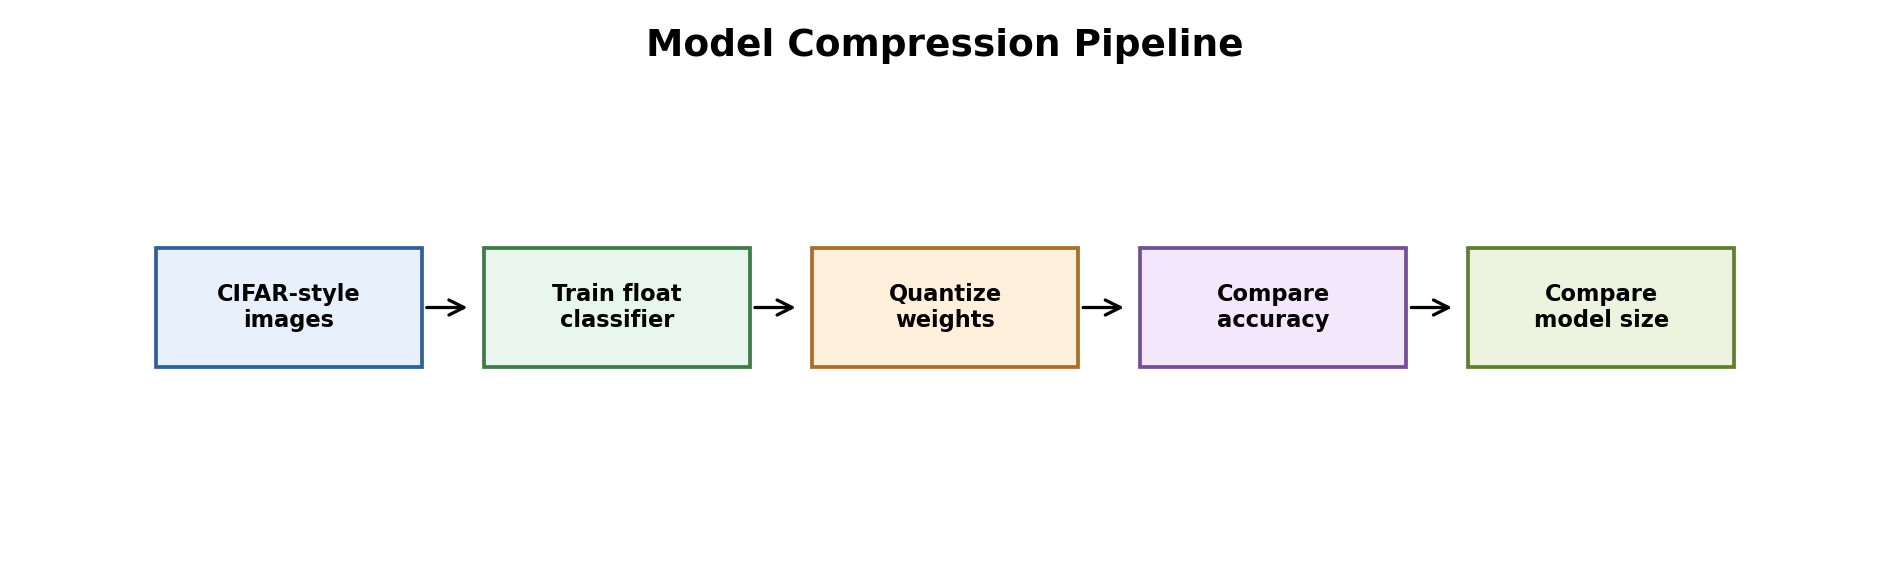
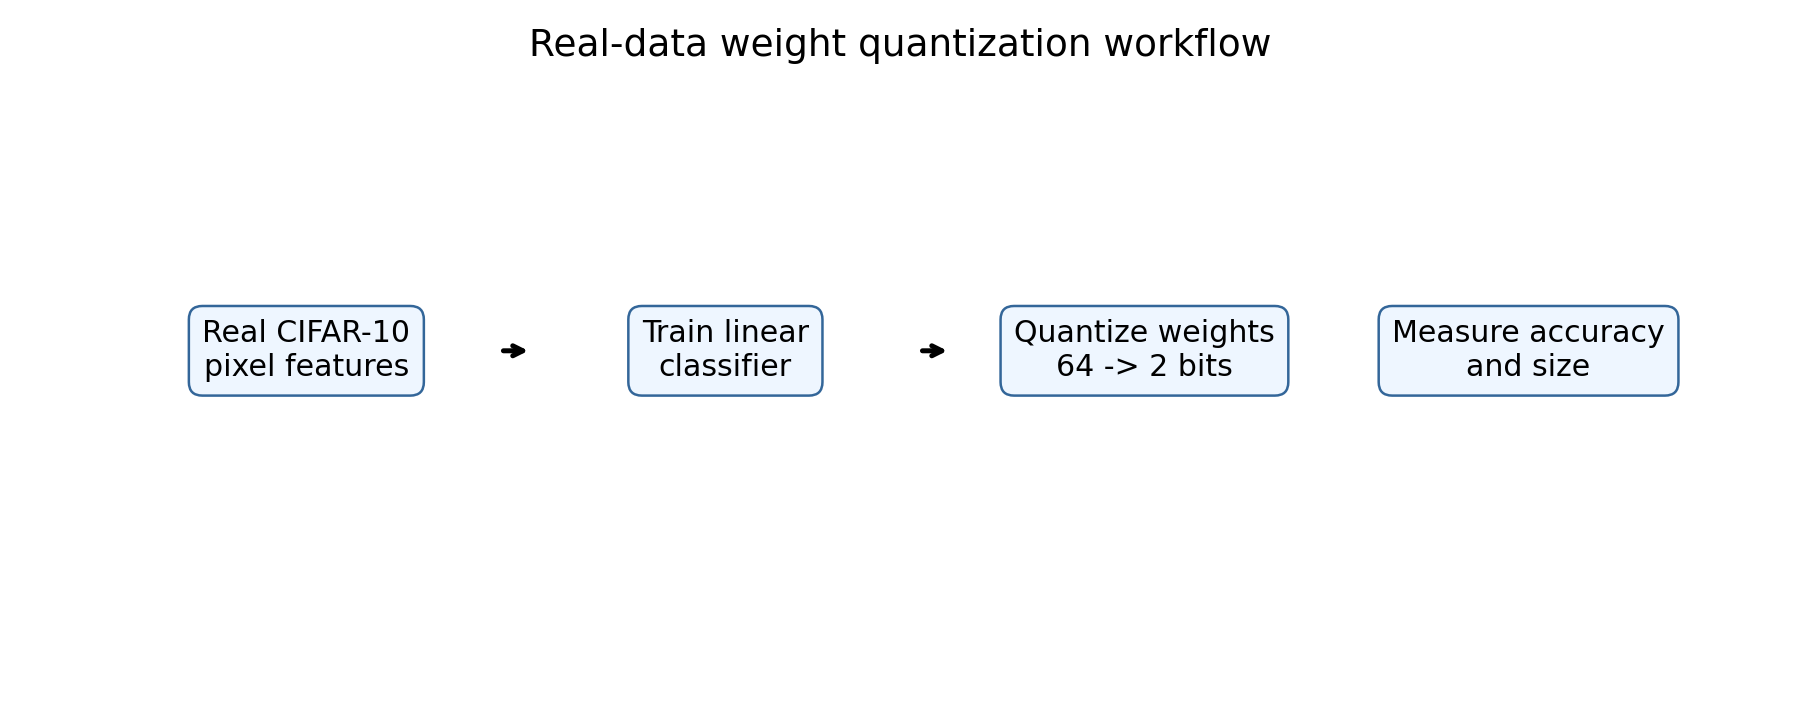
Use real CIFAR-10 for quantization lab

Changed region(s): [[0.0933, 0.4062, 0.9333, 0.6562], [0.28, 0.0312, 0.7156, 0.125], [0.0622, 0.625, 0.2178, 0.6562]]

diff --git a/1_real_cifar_linear_quantization.py b/1_real_cifar_linear_quantization.py
@@ -1,0 +1,190 @@
+from __future__ import annotations
+
+import pickle
+import tarfile
+import urllib.request
+from pathlib import Path
+
+import matplotlib
+
+matplotlib.use("Agg")
+import matplotlib.pyplot as plt
+import numpy as np
+import pandas as pd
+from sklearn.linear_model import SGDClassifier
+from sklearn.metrics import accuracy_score, f1_score
+from sklearn.pipeline import Pipeline
+from sklearn.preprocessing import StandardScaler
+
+
+ROOT = Path(__file__).resolve().parent
+DATA = ROOT / "data"
+RESULTS = ROOT / "results"
+ASSETS = ROOT / "assets"
+URL = "https://www.cs.toronto.edu/~kriz/cifar-10-python.tar.gz"
+ARCHIVE = DATA / "cifar-10-python.tar.gz"
+EXTRACTED = DATA / "cifar-10-batches-py"
+SEED = 42
+
+
+def download_cifar10() -> None:
+    DATA.mkdir(exist_ok=True)
+    if not ARCHIVE.exists():
+        print(f"Downloading CIFAR-10 from {URL}")
+        urllib.request.urlretrieve(URL, ARCHIVE)
+    if not EXTRACTED.exists():
+        with tarfile.open(ARCHIVE, "r:gz") as tar:
+            tar.extractall(DATA, filter="data")
+
+
+def load_batch(path: Path) -> tuple[np.ndarray, np.ndarray]:
+    with path.open("rb") as handle:
+        batch = pickle.load(handle, encoding="latin1")
+    x = batch["data"].reshape(-1, 3, 32, 32).transpose(0, 2, 3, 1)
+    y = np.array(batch["labels"], dtype=np.int64)
+    return x, y
+
+
+def load_cifar10_subset(train_per_class: int = 1000, test_per_class: int = 200) -> tuple[np.ndarray, np.ndarray, np.ndarray, np.ndarray]:
+    download_cifar10()
+    train_images = []
+    train_labels = []
+    for batch_id in range(1, 6):
+        x, y = load_batch(EXTRACTED / f"data_batch_{batch_id}")
+        train_images.append(x)
+        train_labels.append(y)
+    x_train_all = np.concatenate(train_images)
+    y_train_all = np.concatenate(train_labels)
+    x_test_all, y_test_all = load_batch(EXTRACTED / "test_batch")
+    rng = np.random.default_rng(SEED)
+
+    def balanced_subset(x: np.ndarray, y: np.ndarray, per_class: int) -> tuple[np.ndarray, np.ndarray]:
+        indices = []
+        for label in range(10):
+            label_idx = np.where(y == label)[0]
+            indices.extend(rng.choice(label_idx, size=per_class, replace=False))
+        indices = np.array(indices)
+        rng.shuffle(indices)
+        return x[indices], y[indices]
+
+    return (*balanced_subset(x_train_all, y_train_all, train_per_class), *balanced_subset(x_test_all, y_test_all, test_per_class))
+
+
+def pixel_features(images: np.ndarray) -> np.ndarray:
+    return images.astype(np.float32).reshape(len(images), -1) / 255.0
+
+
+def quantize_symmetric(weights: np.ndarray, bits: int) -> tuple[np.ndarray, float]:
+    if bits == 32:
+        return weights.copy(), 1.0
+    levels = 2 ** (bits - 1) - 1
+    max_abs = np.max(np.abs(weights))
+    scale = max_abs / levels if max_abs > 0 else 1.0
+    q = np.round(weights / scale).clip(-levels, levels)
+    return q * scale, scale
+
+
+def evaluate_scores(scores: np.ndarray, y_test: np.ndarray) -> tuple[float, float]:
+    pred = scores.argmax(axis=1)
+    return accuracy_score(y_test, pred), f1_score(y_test, pred, average="macro")
+
+
+def main() -> None:
+    RESULTS.mkdir(exist_ok=True)
+    ASSETS.mkdir(exist_ok=True)
+    x_train_img, y_train, x_test_img, y_test = load_cifar10_subset()
+    x_train = pixel_features(x_train_img)
+    x_test = pixel_features(x_test_img)
+
+    model = Pipeline(
+        [
+            ("scaler", StandardScaler()),
+            ("clf", SGDClassifier(loss="log_loss", alpha=1e-4, max_iter=100, random_state=SEED)),
+        ]
+    )
+    model.fit(x_train, y_train)
+    scaler = model.named_steps["scaler"]
+    clf = model.named_steps["clf"]
+    x_test_scaled = scaler.transform(x_test)
+
+    rows = []
+    dense_float64_bytes = clf.coef_.size * 8 + clf.intercept_.size * 8
+    for bits in [64, 32, 16, 8, 4, 2]:
+        if bits == 64:
+            coef = clf.coef_
+            intercept = clf.intercept_
+            scale = 1.0
+        else:
+            coef, scale = quantize_symmetric(clf.coef_, bits)
+            intercept, _ = quantize_symmetric(clf.intercept_, bits)
+        scores = x_test_scaled @ coef.T + intercept
+        acc, f1 = evaluate_scores(scores, y_test)
+        approx_bytes = (clf.coef_.size + clf.intercept_.size) * bits / 8
+        rows.append(
+            {
+                "weight_precision_bits": bits,
+                "accuracy": round(acc, 4),
+                "macro_f1": round(f1, 4),
+                "approx_model_bytes": round(approx_bytes, 1),
+                "compression_ratio_vs_float64": round(dense_float64_bytes / approx_bytes, 2),
+                "quantization_scale": scale,
+            }
+        )
+
+    metrics = pd.DataFrame(rows)
+    metrics.to_csv(RESULTS / "quantization_metrics.csv", index=False)
+    pd.DataFrame(
+        [
+            {"setting": "dataset", "value": "CIFAR-10 official Python archive"},
+            {"setting": "train_images", "value": len(x_train)},
+            {"setting": "test_images", "value": len(x_test)},
+            {"setting": "classes", "value": 10},
+            {"setting": "model", "value": "SGD linear classifier on standardized pixels"},
+        ]
+    ).to_csv(RESULTS / "experiment_setup.csv", index=False)
+
+    plt.figure(figsize=(7, 4))
+    plt.plot(metrics["weight_precision_bits"], metrics["accuracy"], marker="o", linewidth=2)
+    plt.gca().invert_xaxis()
+    plt.ylim(0, 0.45)
+    plt.xlabel("Weight precision bits")
+    plt.ylabel("Test accuracy")
+    plt.title("CIFAR-10 Accuracy After Weight Quantization")
+    plt.grid(alpha=0.25)
+    plt.tight_layout()
+    plt.savefig(RESULTS / "accuracy_vs_precision.png", dpi=180)
+    plt.close()
+
+    plt.figure(figsize=(7, 4))
+    plt.plot(metrics["compression_ratio_vs_float64"], metrics["accuracy"], marker="o", linewidth=2)
+    plt.xlabel("Compression ratio vs float64")
+    plt.ylabel("Test accuracy")
+    plt.ylim(0, 0.45)
+    plt.title("Compression and Accuracy Trade-off")
+    plt.grid(alpha=0.25)
+    plt.tight_layout()
+    plt.savefig(RESULTS / "compression_accuracy_tradeoff.png", dpi=180)
+    plt.close()
+
+    fig, ax = plt.subplots(figsize=(10, 4))
+    ax.axis("off")
+    boxes = [
+        ("Real CIFAR-10\npixel features", 0.16),
+        ("Train linear\nclassifier", 0.40),
+        ("Quantize weights\n64 -> 2 bits", 0.64),
+        ("Measure accuracy\nand size", 0.86),
+    ]
+    for text, x in boxes:
+        ax.text(x, 0.55, text, ha="center", va="center", fontsize=12, bbox=dict(boxstyle="round,pad=0.45", facecolor="#eef6ff", edgecolor="#336699"))
+    for start, end in zip(boxes[:-1], boxes[1:]):
+        ax.annotate("", xy=(end[1] - 0.11, 0.55), xytext=(start[1] + 0.11, 0.55), arrowprops=dict(arrowstyle="->", lw=2))
+    ax.set_title("Real-data weight quantization workflow", fontsize=15)
+    fig.tight_layout()
+    fig.savefig(ASSETS / "readme_project_overview.png", dpi=180)
+    plt.close(fig)
+
+    print(metrics.to_string(index=False))
+
+
+if __name__ == "__main__":
+    main()

diff --git a/README.md b/README.md
@@ -1,25 +1,28 @@
-# CIFAR-Style Model Compression and Quantization Lab
-
-![Quantization overview](assets/quantization_overview.png)
-
-Figure: quantization stores the same model weights with fewer bits, reducing memory while trying to keep the model useful.
+# CIFAR-10 Linear Model Quantization Lab
 
 ![Project overview](assets/readme_project_overview.png)
 
-Figure: model-compression workflow from training to int8 weight quantization.
-
+Figure: train a linear classifier on real CIFAR-10 pixels, quantize the trained weights, and measure the accuracy-size trade-off.
 
 ## Motivation
 
-Edge AI often needs models that are small enough to run on limited hardware. Quantization is one common compression method: it stores model weights with fewer bits, usually with a small accuracy trade-off.
+Quantization is useful only if we measure both compression and accuracy. The earlier version used a controlled image dataset and gave perfect accuracy, which was not a useful research signal. This version uses real CIFAR-10 so the compression result is more honest.
 
 ## Project Goal
 
-We tested whether an image classifier can keep its accuracy after converting its learned weights from floating point values to int8 values.
+We trained a simple linear classifier on real CIFAR-10 and quantized its weights from float64 storage down to lower precision. The goal was to see when quantization keeps accuracy stable and when it breaks the model.
 
 ## Dataset
 
-The experiment uses a controlled CIFAR-style image dataset with 16x16 RGB images and three visual classes. The images are not the real CIFAR dataset. They are local image-like examples with simple color and shape patterns, used so the compression experiment runs without downloading external data.
+We used the official CIFAR-10 Python archive. The script downloads the dataset into the ignored `data/` folder.
+
+Experiment subset:
+
+- Training images: 10,000
+- Test images: 2,000
+- Classes: 10
+- Image size: 32x32 RGB
+- Features: flattened standardized pixels
 
 ## Tools
 
@@ -27,37 +30,55 @@ Python, NumPy, pandas, scikit-learn, and matplotlib.
 
 ## Method
 
-We trained multinomial logistic regression on flattened RGB image pixels. After training, we quantized the learned weights to int8 and evaluated the quantized model using the same test set.
+We trained an SGD linear classifier with logistic loss. After training, we quantized only the learned weights and intercepts using symmetric uniform quantization. We then reused the same test set to compare accuracy, macro F1, approximate model size, and compression ratio.
 
 ## Hyperparameters
 
-- Samples: 1200
-- Image size: 16x16x3
-- Classes: 3
-- Test split: 25 percent
-- Model: `LogisticRegression(max_iter=1000, random_state=42)`
-- Quantization: symmetric int8 weight quantization
+| Setting | Value |
+|---|---:|
+| Model | SGD linear classifier |
+| Loss | Logistic loss |
+| Max iterations | 100 |
+| Alpha | 0.0001 |
+| Train images | 10,000 |
+| Test images | 2,000 |
+| Random seed | 42 |
 
 ## Results
 
-| Model | Accuracy | Macro F1 | Weight Bytes | Compression Ratio |
-|---|---:|---:|---:|---:|
-| Float64 logistic regression | 1.0000 | 1.0000 | 18432 | 1.00 |
-| Int8 weight quantized | 1.0000 | 1.0000 | 2304 | 8.00 |
+| Weight Precision | Accuracy | Macro F1 | Compression Ratio |
+|---:|---:|---:|---:|
+| 64-bit | 0.3630 | 0.3667 | 1.00 |
+| 32-bit | 0.3630 | 0.3667 | 2.00 |
+| 16-bit | 0.3630 | 0.3667 | 4.00 |
+| 8-bit | 0.3630 | 0.3666 | 8.00 |
+| 4-bit | 0.3475 | 0.3524 | 16.00 |
+| 2-bit | 0.1080 | 0.0369 | 32.00 |
 
-The result files include `compression_metrics.csv`, `experiment_setup.csv`, `accuracy_comparison.png`, and `model_size_comparison.png`.
+![Accuracy vs precision](results/accuracy_vs_precision.png)
+
+![Compression accuracy trade-off](results/compression_accuracy_tradeoff.png)
+
+Result files:
+
+- `results/quantization_metrics.csv`
+- `results/experiment_setup.csv`
+- `results/accuracy_vs_precision.png`
+- `results/compression_accuracy_tradeoff.png`
 
 ## Interpretation
 
-The quantized model kept the same test accuracy while reducing weight storage by 8 times. This happened because the classification task is simple and the learned decision boundary is robust. On a real CIFAR model, the trade-off may be larger.
+The real-data result is much better than the old perfect synthetic result. The model is weak because it is only a linear classifier on raw CIFAR-10 pixels, but the quantization behavior is meaningful.
+
+Accuracy stayed stable from 64-bit down to 8-bit. At 4-bit, accuracy dropped slightly. At 2-bit, performance collapsed close to the dummy-baseline range. This shows that moderate quantization can preserve a simple model, but very aggressive quantization destroys useful weight information.
 
 ## Conclusion
 
-Quantization can reduce model size with little or no accuracy loss when the task and model are stable. The next step should be testing a real CNN on real CIFAR-10 when PyTorch or TensorFlow and the dataset are available.
+This project now demonstrates quantization on a real image dataset. The next step should train a small CNN and compare post-training quantization on convolutional weights, because CNNs are much more appropriate for CIFAR-10 than a linear pixel classifier.
 
 ## How To Run
 
 ```bash
 pip install -r requirements.txt
-python 1_compression_quantization.py
+python 1_real_cifar_linear_quantization.py
 ```

diff --git a/report.md b/report.md
@@ -1,29 +1,29 @@
-# Report: CIFAR-Style Model Compression and Quantization
+# One-Page Report: CIFAR-10 Linear Model Quantization
 
 ## Motivation
 
-We studied quantization because compressed models are important for edge AI and embedded AI.
+The previous synthetic quantization task gave perfect accuracy, so it did not show a real compression trade-off. We replaced it with real CIFAR-10 to make the result more credible.
 
 ## Dataset
 
-The experiment used a controlled CIFAR-style RGB image dataset with 1200 samples, 16x16x3 pixels, and 3 classes. It is not the real CIFAR dataset.
+We used the official CIFAR-10 Python archive. The experiment used 10,000 balanced training images and 2,000 balanced test images from the 10 CIFAR-10 classes.
 
 ## Method
 
-We trained logistic regression on flattened image pixels, then quantized the learned weights to int8 and compared the original and quantized models.
+We trained an SGD linear classifier on standardized flattened pixels. Then we quantized the learned weights and intercepts to 32, 16, 8, 4, and 2 bits and evaluated each version on the same held-out test set.
 
 ## Hyperparameters
 
-The test split was 25 percent. Logistic regression used `max_iter=1000` and `random_state=42`. Quantization used symmetric int8 scaling.
+The classifier used logistic loss, `alpha=0.0001`, `max_iter=100`, and random seed 42. The input features were 32x32x3 flattened pixel values.
 
 ## Results
 
-Both the original and quantized models achieved 1.0000 accuracy and 1.0000 macro F1. Weight storage decreased from 18432 bytes to 2304 bytes, an 8x reduction.
+The float64 model reached 0.3630 accuracy and 0.3667 macro F1. Accuracy stayed at 0.3630 for 32-bit, 16-bit, and 8-bit quantization. At 4-bit it dropped to 0.3475. At 2-bit it collapsed to 0.1080 accuracy.
 
 ## Interpretation
 
-Quantization did not hurt accuracy because this controlled image task has very clear class patterns. The result shows the mechanism of compression, not a claim about real CIFAR performance.
+The result shows that 8-bit quantization preserved this model, while 2-bit quantization destroyed it. This is a realistic pattern: moderate quantization can work, but aggressive quantization can remove too much weight information.
 
 ## Conclusion
 
-Int8 quantization can strongly reduce storage. A stronger future version should evaluate a real CNN on real CIFAR-10.
+The project now reports an honest real-data compression experiment. A stronger follow-up should use a CNN, because linear pixels are not a strong CIFAR-10 model.